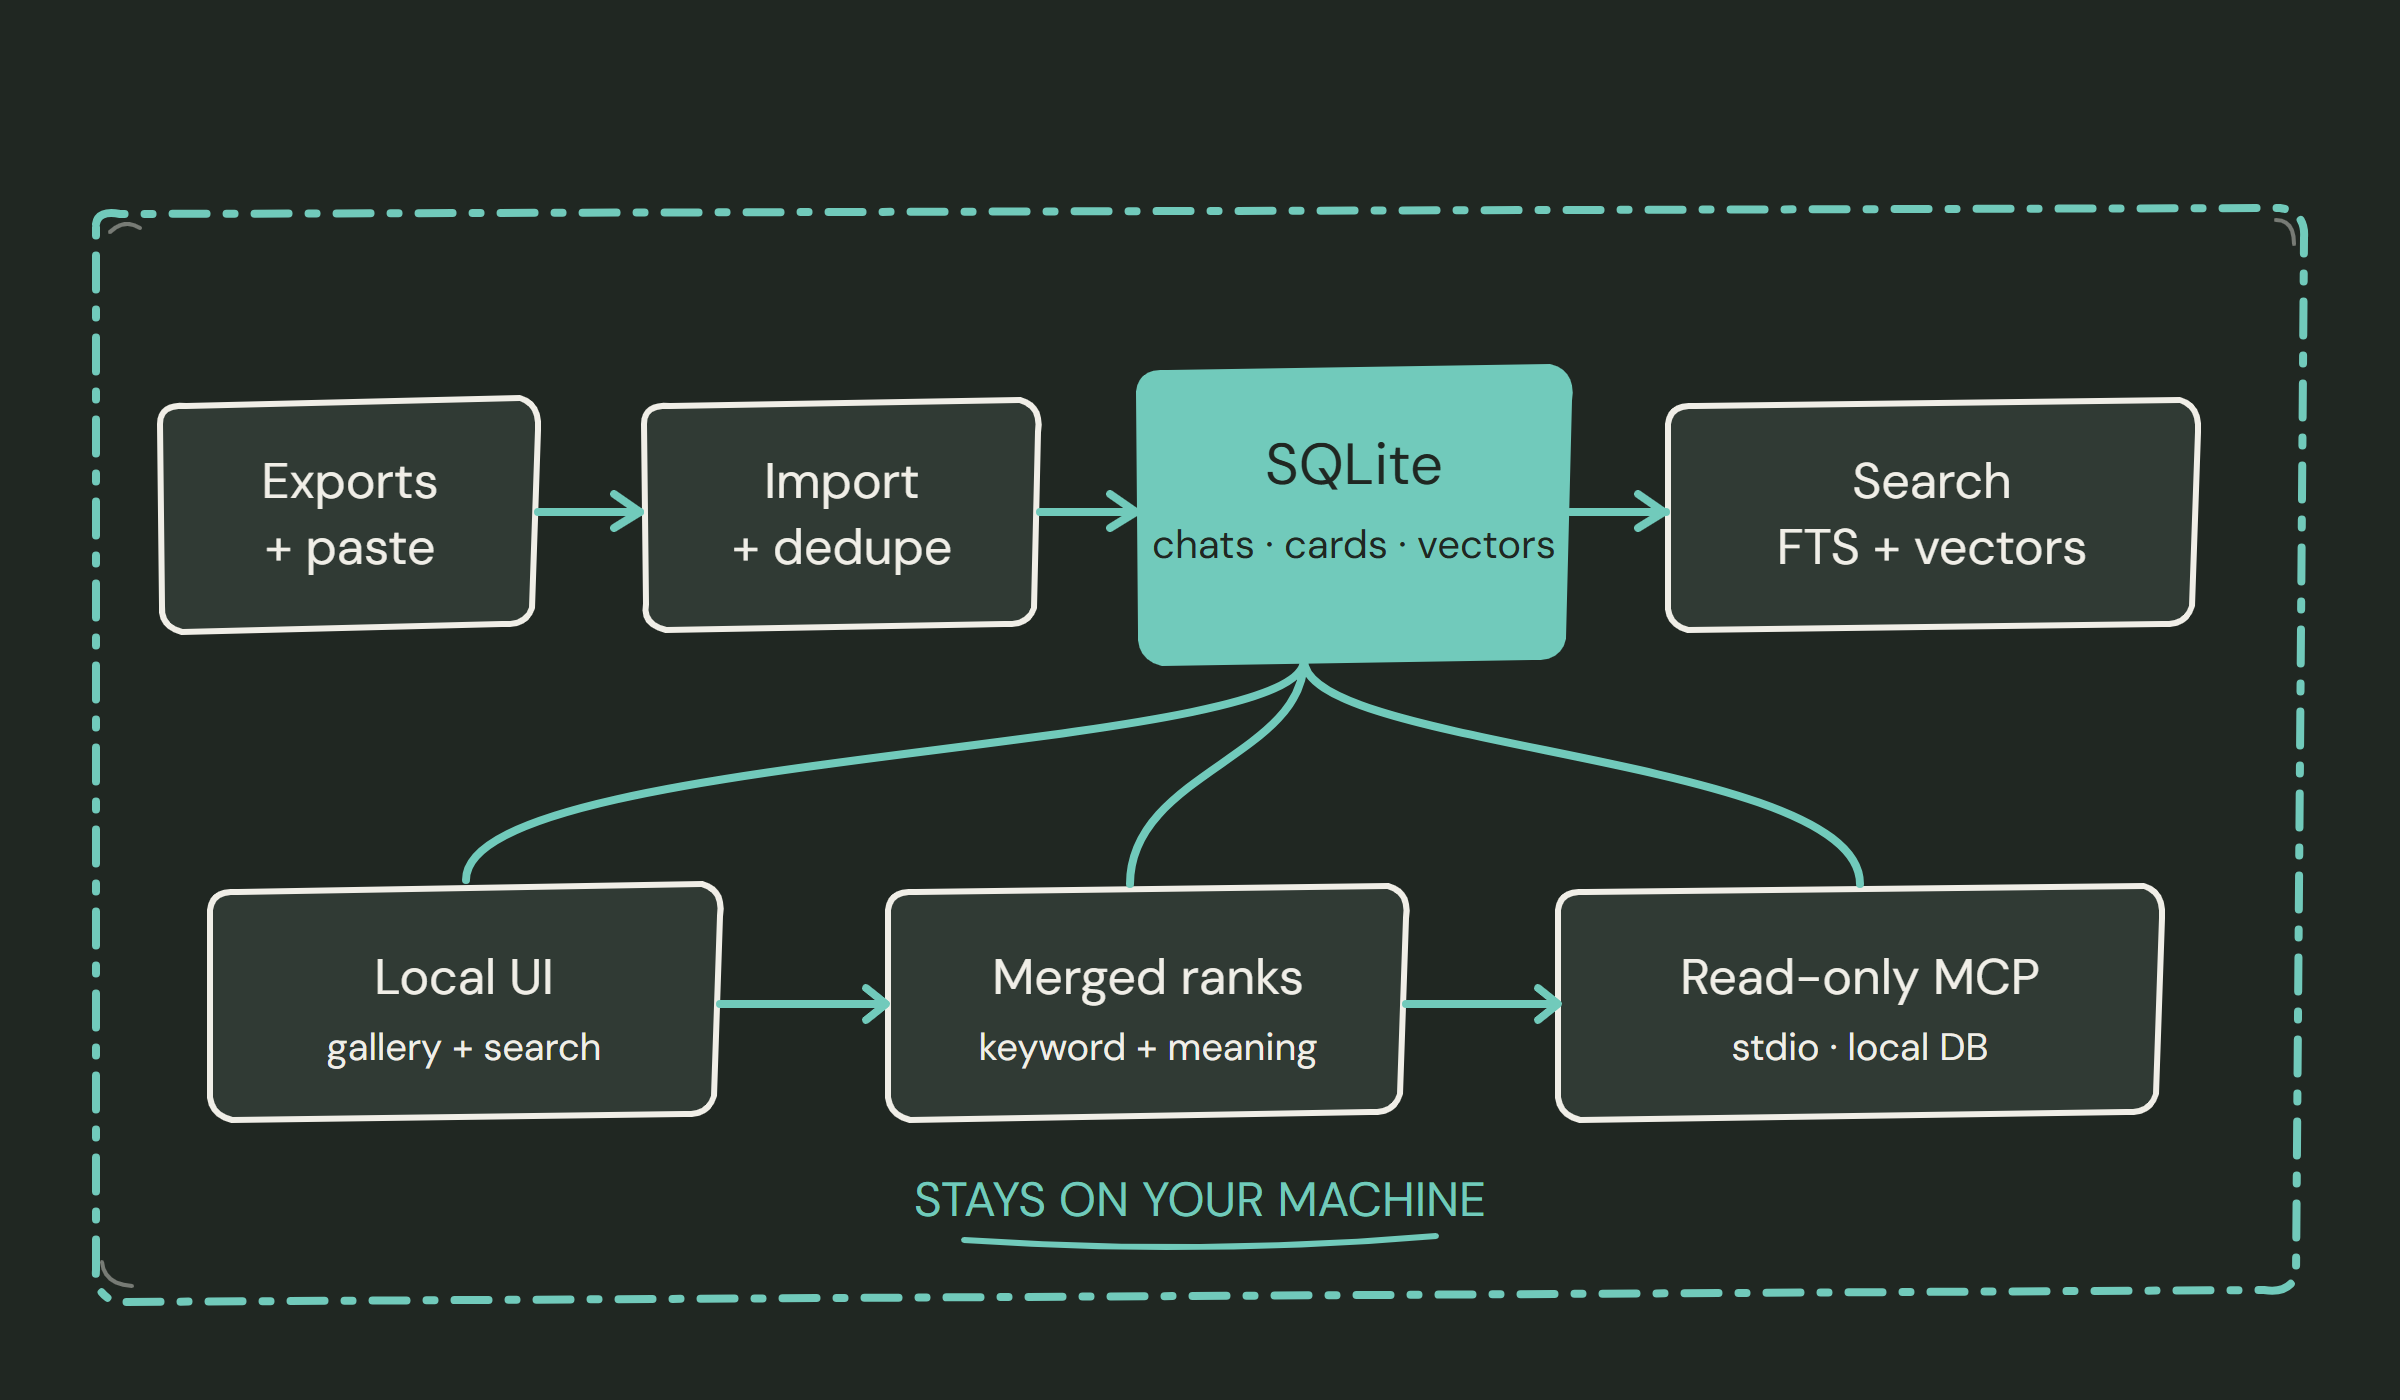
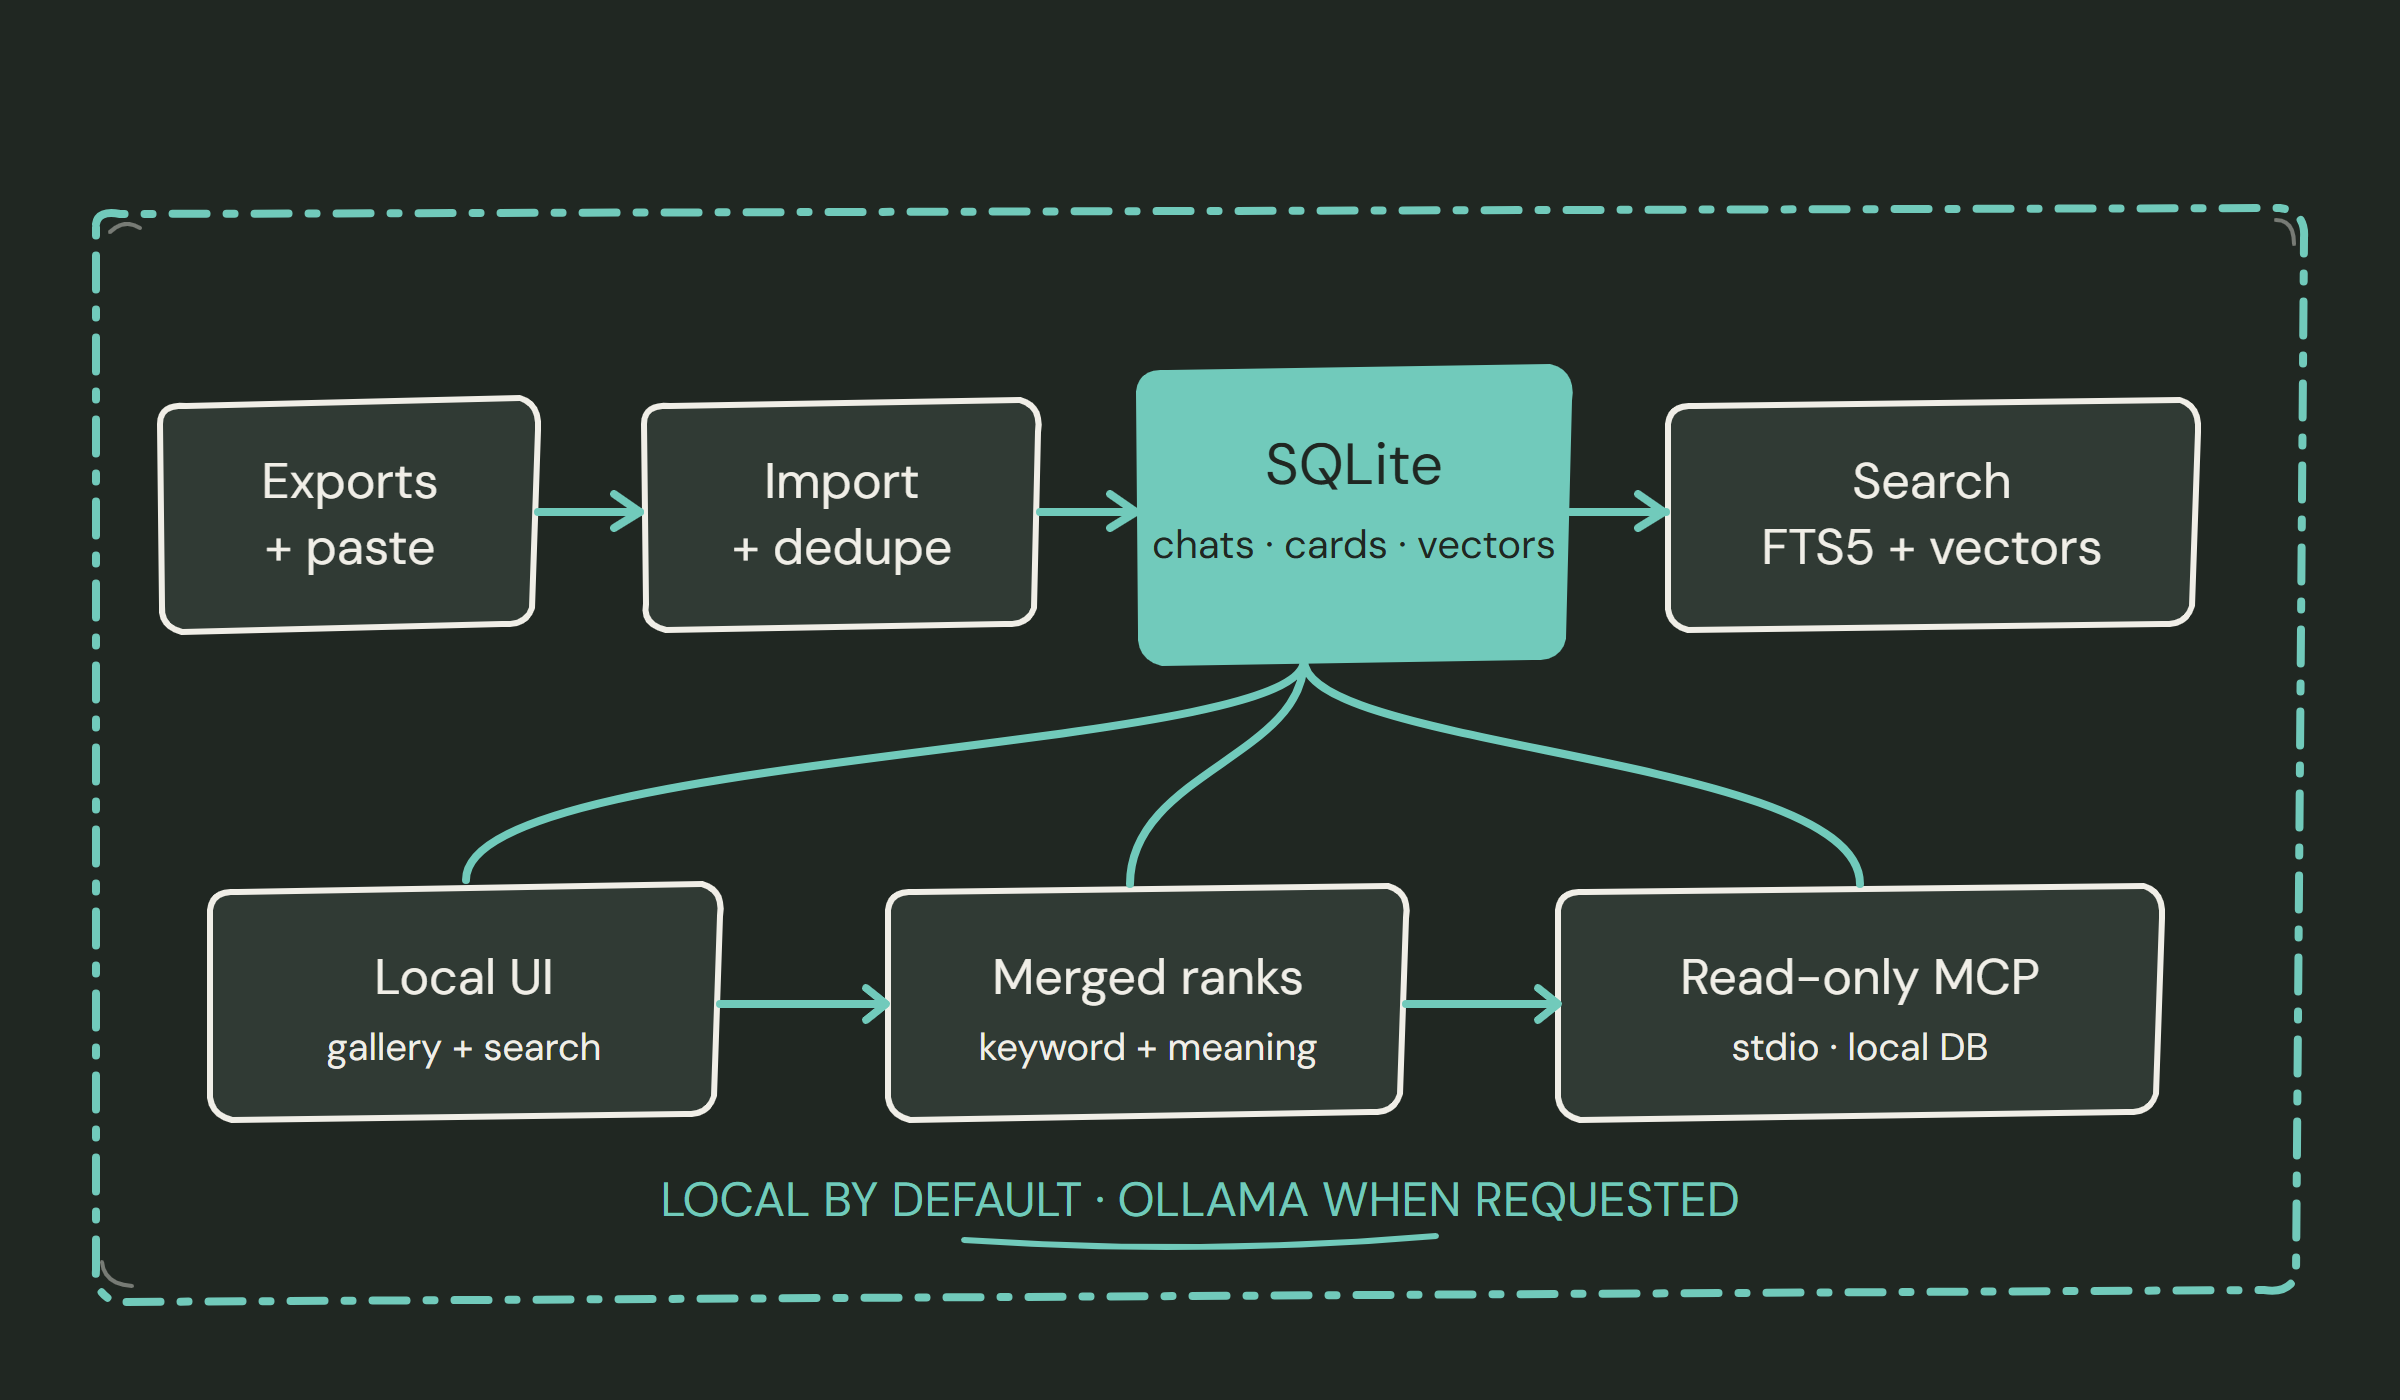
Polish README and architecture diagrams

Changed region(s): [[0.2812, 0.8293, 0.7188, 0.8907], [0.7188, 0.3686, 0.875, 0.3993]]

diff --git a/README.md b/README.md
@@ -5,15 +5,30 @@
 
 # Lake
 
-Private, local-first gallery for your AI chats: searchable, visual, and ready to **continue from here**.
+Private, local-first gallery for your AI chats: searchable, visual, and ready
+to **continue from here**.
 
 [![License: Apache-2.0](https://img.shields.io/badge/license-Apache--2.0-146b60?labelColor=26332f)](LICENSE)
 [![Python 3.11+](https://img.shields.io/badge/python-3.11%2B-146b60)](https://www.python.org/)
 [![CI](https://github.com/temanhattan/Lake/actions/workflows/ci.yml/badge.svg)](https://github.com/temanhattan/Lake/actions/workflows/ci.yml)
 
+> Lake turns scattered AI conversations into a private, searchable library
+> that helps you pick up where you left off.
+
 <p align="center">
   <img src="docs/assets/readme/lake-walkthrough.gif" alt="Demo-only walkthrough of Lake's welcome wall, search, chat detail, and continue block" width="720">
 </p>
+
+*The media below uses fictional conversations and contains no personal library data.*
+
+## Why Lake
+
+- **Keep it local.** Chats, indexes, cards, and jobs stay on your machine.
+- **Find the thread.** Combine exact keyword search with local semantic search.
+- **Continue with context.** Turn a long conversation into a compact handoff.
+- **Bring your tools.** Read your library from coding agents through read-only MCP.
+
+## At a glance
 
 <picture>
   <source media="(prefers-color-scheme: dark)" srcset="docs/assets/readme/welcome-dark.png">
@@ -32,15 +47,7 @@ Private, local-first gallery for your AI chats: searchable, visual, and ready to
   <img src="docs/assets/readme/palette-light.png" alt="Lake command palette in a fictional demo library" width="24%">
 </picture>
 
-## What you get
-
-- Import ChatGPT, Claude, Markdown, text, or pasted transcripts.
-- Browse a calm, visual wall of conversations.
-- Search by keyword, meaning, or both.
-- Keep everything in a local SQLite database.
-- Turn a long chat into a compact context block.
-- Continue in any AI tool without losing the thread.
-- Connect coding agents through a read-only local MCP server.
+<p align="center"><sub>Welcome wall · hybrid search · chat detail · command palette</sub></p>
 
 ## How it works
 
@@ -49,31 +56,66 @@ Private, local-first gallery for your AI chats: searchable, visual, and ready to
   <img src="docs/diagrams/architecture-light.svg" alt="Hand-drawn Lake data flow from exports and pasted chats through local SQLite and merged search to the UI and read-only MCP">
 </picture>
 
-Search fuses SQLite FTS5 keyword matches with local vector results. Cards and context blocks are generated only when you ask, through your local Ollama endpoint. The diagram and PNG fallbacks are reproducibly built from [docs/diagrams/src/](docs/diagrams/src/).
+Lake imports transcripts into SQLite, builds searchable indexes locally, and
+serves the interface over loopback HTTP. Search fuses SQLite FTS5 keyword
+matches with local vector results. Cards and context blocks are generated
+only when you ask, through your configured local Ollama endpoint.
 
-## Privacy
+<table>
+<tr>
+<td width="50%">
+<picture>
+  <source media="(prefers-color-scheme: dark)" srcset="docs/diagrams/search-dark.svg">
+  <img src="docs/diagrams/search-light.svg" alt="Lake search pipeline from a query through FTS5, vector search, rank fusion, and chat results">
+</picture>
+</td>
+<td width="50%">
+<picture>
+  <source media="(prefers-color-scheme: dark)" srcset="docs/diagrams/continue-dark.svg">
+  <img src="docs/diagrams/continue-light.svg" alt="Lake continue flow from a full conversation to a reusable card and compact context block">
+</picture>
+</td>
+</tr>
+</table>
 
-- Everything stays on your machine, including chats, cards, indexes, and jobs.
-- Lake has no telemetry or hosted API.
-- Read-only MCP uses local stdio and redacts detected secrets by default.
+The diagrams and PNG fallbacks are reproducibly built from
+[docs/diagrams/src/](docs/diagrams/src/).
+
+## Privacy and boundaries
+
+- Lake binds the web server to `127.0.0.1` and rejects unexpected Host and
+  cross-origin state-changing requests.
+- Chats, cards, indexes, settings, and jobs stay on your machine.
+- Lake has no telemetry or hosted API. Ollama is contacted only for the local
+  features you request.
+- MCP uses local stdio, opens SQLite read-only, caps its output, and redacts
+  detected secrets by default.
 
 See [docs/privacy.md](docs/privacy.md) for boundaries and redaction details.
 
 ## Quick start
 
+Install the latest tagged release with [pipx](https://pipx.pypa.io/):
+
 ```powershell
-pipx install "git+https://github.com/temanhattan/Lake.git"
-New-Item -ItemType Directory imports -Force
-lake import .\imports
+pipx install "git+https://github.com/temanhattan/Lake.git@v0.1.0"
+lake import .\path\to\export
 lake serve
 ```
 
-Open <http://127.0.0.1:8765>, then import an export from **Import**. For Ollama setup and configuration options, see [docs/ollama.md](docs/ollama.md).
+Open <http://127.0.0.1:8765>. You can also import an export from **Import** in
+the browser. For Ollama setup and configuration options, see
+[docs/ollama.md](docs/ollama.md).
 
-For a source checkout, install the pinned development environment with
-`python -m pip install -r requirements-dev.txt`. Lake stores data under the
-per-user OS data directory by default; set `LAKE_DATA_DIR` or `data_dir` in
-`config.toml` to choose another location.
+For a source checkout:
+
+```powershell
+python -m pip install -r requirements-dev.txt
+python -m unittest discover -s tests -v
+```
+
+Lake stores data under a per-user OS data directory by default. Set
+`LAKE_DATA_DIR` or `data_dir` in `config.toml` to choose another location.
 
 ## Models
 
@@ -99,7 +141,10 @@ Model weights are not distributed by Lake; download them through Ollama.
 python docs/diagrams/build.py
 ```
 
-The diagrams use hand-drawn SVG templates, embed the locally vendored OFL font, and render 2× PNG fallbacks in Chrome. README screenshots and the demo-only walkthrough are captured with the fictional browser harness described in [docs/testing.md](docs/testing.md).
+The diagrams use hand-drawn SVG templates, embed the locally vendored OFL font,
+and render 2× PNG fallbacks in Chrome. README screenshots and the demo-only
+walkthrough are captured with the fictional browser harness described in
+[docs/testing.md](docs/testing.md).
 
 ## Docs
 

diff --git a/docs/architecture.md b/docs/architecture.md
@@ -1,5 +1,10 @@
 # Architecture
 
-The Python library layer handles imports, deduplication, indexing, search, and context generation. SQLite stores chats, messages, cards, tags, FTS5 indexes, embeddings, and background jobs. The loopback HTTP server serves a static JavaScript/CSS interface and read-only MCP requests use a separate stdio process.
+The Python library layer handles imports, deduplication, indexing, search, and
+context generation. SQLite stores chats, messages, cards, tags, FTS5 indexes,
+embeddings, and background jobs. The loopback HTTP server serves the static
+JavaScript/CSS interface. Read-only MCP requests use a separate stdio process,
+and optional card generation or semantic search uses the configured local
+Ollama endpoint.
 
 See the reproducible [architecture, search, and continue-block diagrams](diagrams/README.md). Vector retrieval uses `sqlite-vec` when available and a NumPy memory-mapped fallback otherwise. Hybrid search combines keyword and vector result ranks with reciprocal rank fusion.
